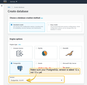
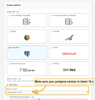
RDS and Azure db update

diff --git a/_includes/templates/install/azure/aks-create-db.md b/_includes/templates/install/azure/aks-create-db.md
@@ -2,7 +2,7 @@ You’ll need to set up PostgreSQL on Azure. ThingsBoard will use it as a main d
 
 You may follow [this](https://docs.microsoft.com/en-us/azure/postgresql/flexible-server/quickstart-create-server-portal) guide, but take into account the following requirements:
    * Keep your postgresql password in a safe place. We will refer to it later in this guide using YOUR_RDS_PASSWORD;
-   * Make sure your Azure Database for PostgreSQL version is latest 12.x, not 13.x yet;
+   * Make sure your Azure Database for PostgreSQL version is latest 16.x;
    * Make sure your Azure Database for PostgreSQL instance is accessible from the ThingsBoard cluster;
    * Make sure you use “thingsboard” as initial database name;
     

diff --git a/_includes/templates/install/aws/rds-setup.md b/_includes/templates/install/aws/rds-setup.md
@@ -3,7 +3,7 @@ You may follow [this](https://docs.aws.amazon.com/AmazonRDS/latest/UserGuide/CHA
 but take into account the following requirements:
 
 * Keep your postgresql password in a safe place. We will refer to it later in this guide using **YOUR_RDS_PASSWORD**.
-* Make sure your PostgreSQL version is latest 12.x, not 13.x yet;
+* Make sure your PostgreSQL version is latest 16.x;
 * Make sure your PostgreSQL RDS instance is accessible from the ThingsBoard cluster;
   The easiest way to achieve this is to deploy the PostgreSQL RDS instance in the same VPC
   and use 'eksctl-thingsboard-cluster-ClusterSharedNodeSecurityGroup-*' security group.

diff --git a/docs/user-guide/install/cluster/aws-microservices-setup.md b/docs/user-guide/install/cluster/aws-microservices-setup.md
@@ -8,7 +8,7 @@ description: ThingsBoard IoT platform microservices setup with Kubernetes in AWS
 rdsSetup:
     0:
         image: /images/install/cloud/aws/rds-1.png
-        title: 'Make sure your PostgreSQL version is latest 12.x, not 13.x yet.'
+        title: 'Make sure your PostgreSQL version is latest 16.x.'
     1:
         image: /images/install/cloud/aws/rds-2.png
         title: 'Keep your PostgreSQL master password in a safe place. We will refer to it later in this guide using YOUR_RDS_PASSWORD.'

diff --git a/docs/user-guide/install/pe/cluster/aws-microservices-setup.md b/docs/user-guide/install/pe/cluster/aws-microservices-setup.md
@@ -8,7 +8,7 @@ description: ThingsBoard IoT platform microservices setup with Kubernetes in AWS
 rdsSetup:
     0:
         image: /images/install/cloud/aws/rds-1.png
-        title: 'Make sure your PostgreSQL version is latest 12.x, not 13.x yet.'
+        title: 'Make sure your PostgreSQL version is latest 16.x.'
     1:
         image: /images/install/cloud/aws/rds-2.png
         title: 'Keep your PostgreSQL master password in a safe place. We will refer to it later in this guide using YOUR_RDS_PASSWORD.'

diff --git a/docs/user-guide/install/cluster/aws-monolith-setup.md b/docs/user-guide/install/cluster/aws-monolith-setup.md
@@ -7,7 +7,7 @@ description: ThingsBoard IoT platform monolith setup with Kubernetes in AWS EKS
 rdsSetup:
     0:
         image: /images/install/cloud/aws/rds-1.png
-        title: 'Make sure your PostgreSQL version is latest 12.x, not 13.x yet.'
+        title: 'Make sure your PostgreSQL version is latest 16.x.'
     1:
         image: /images/install/cloud/aws/rds-2.png
         title: 'Keep your PostgreSQL master password in a safe place. We will refer to it later in this guide using YOUR_RDS_PASSWORD.'

diff --git a/docs/user-guide/install/pe/cluster/aws-monolith-setup.md b/docs/user-guide/install/pe/cluster/aws-monolith-setup.md
@@ -8,7 +8,7 @@ description: ThingsBoard IoT platform monolith setup with Kubernetes in AWS EKS
 rdsSetup:
     0:
         image: /images/install/cloud/aws/rds-1.png
-        title: 'Make sure your PostgreSQL version is latest 12.x, not 13.x yet.'
+        title: 'Make sure your PostgreSQL version is latest 16.x'
     1:
         image: /images/install/cloud/aws/rds-2.png
         title: 'Keep your PostgreSQL master password in a safe place. We will refer to it later in this guide using YOUR_RDS_PASSWORD.'
